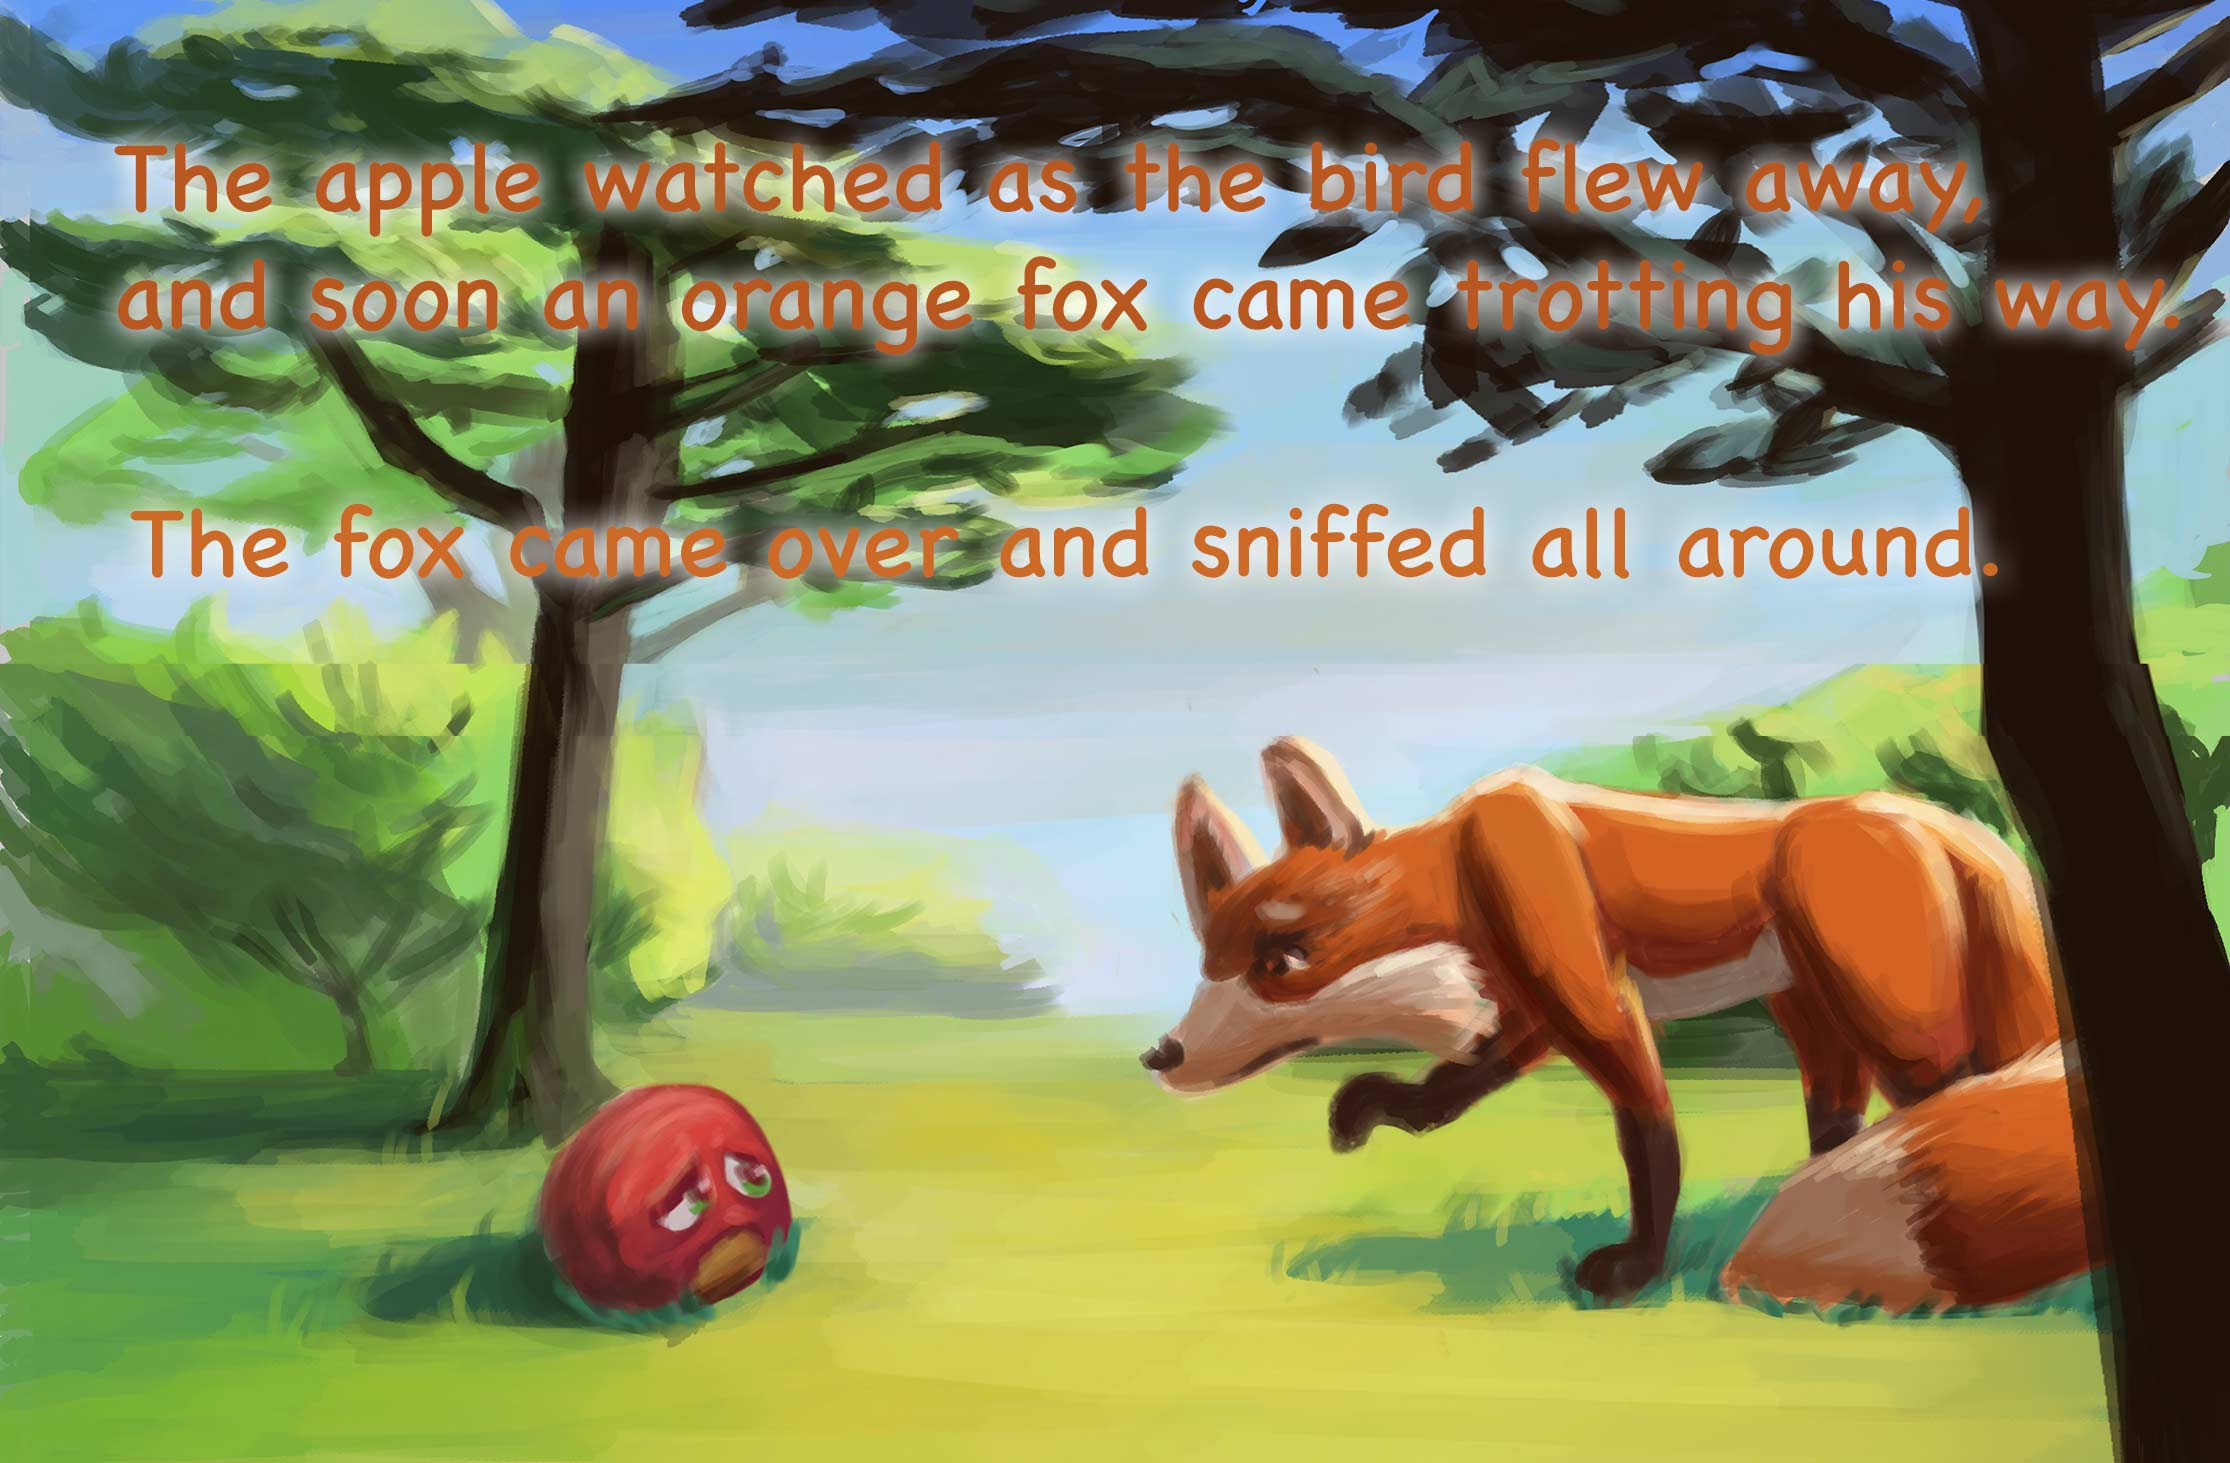
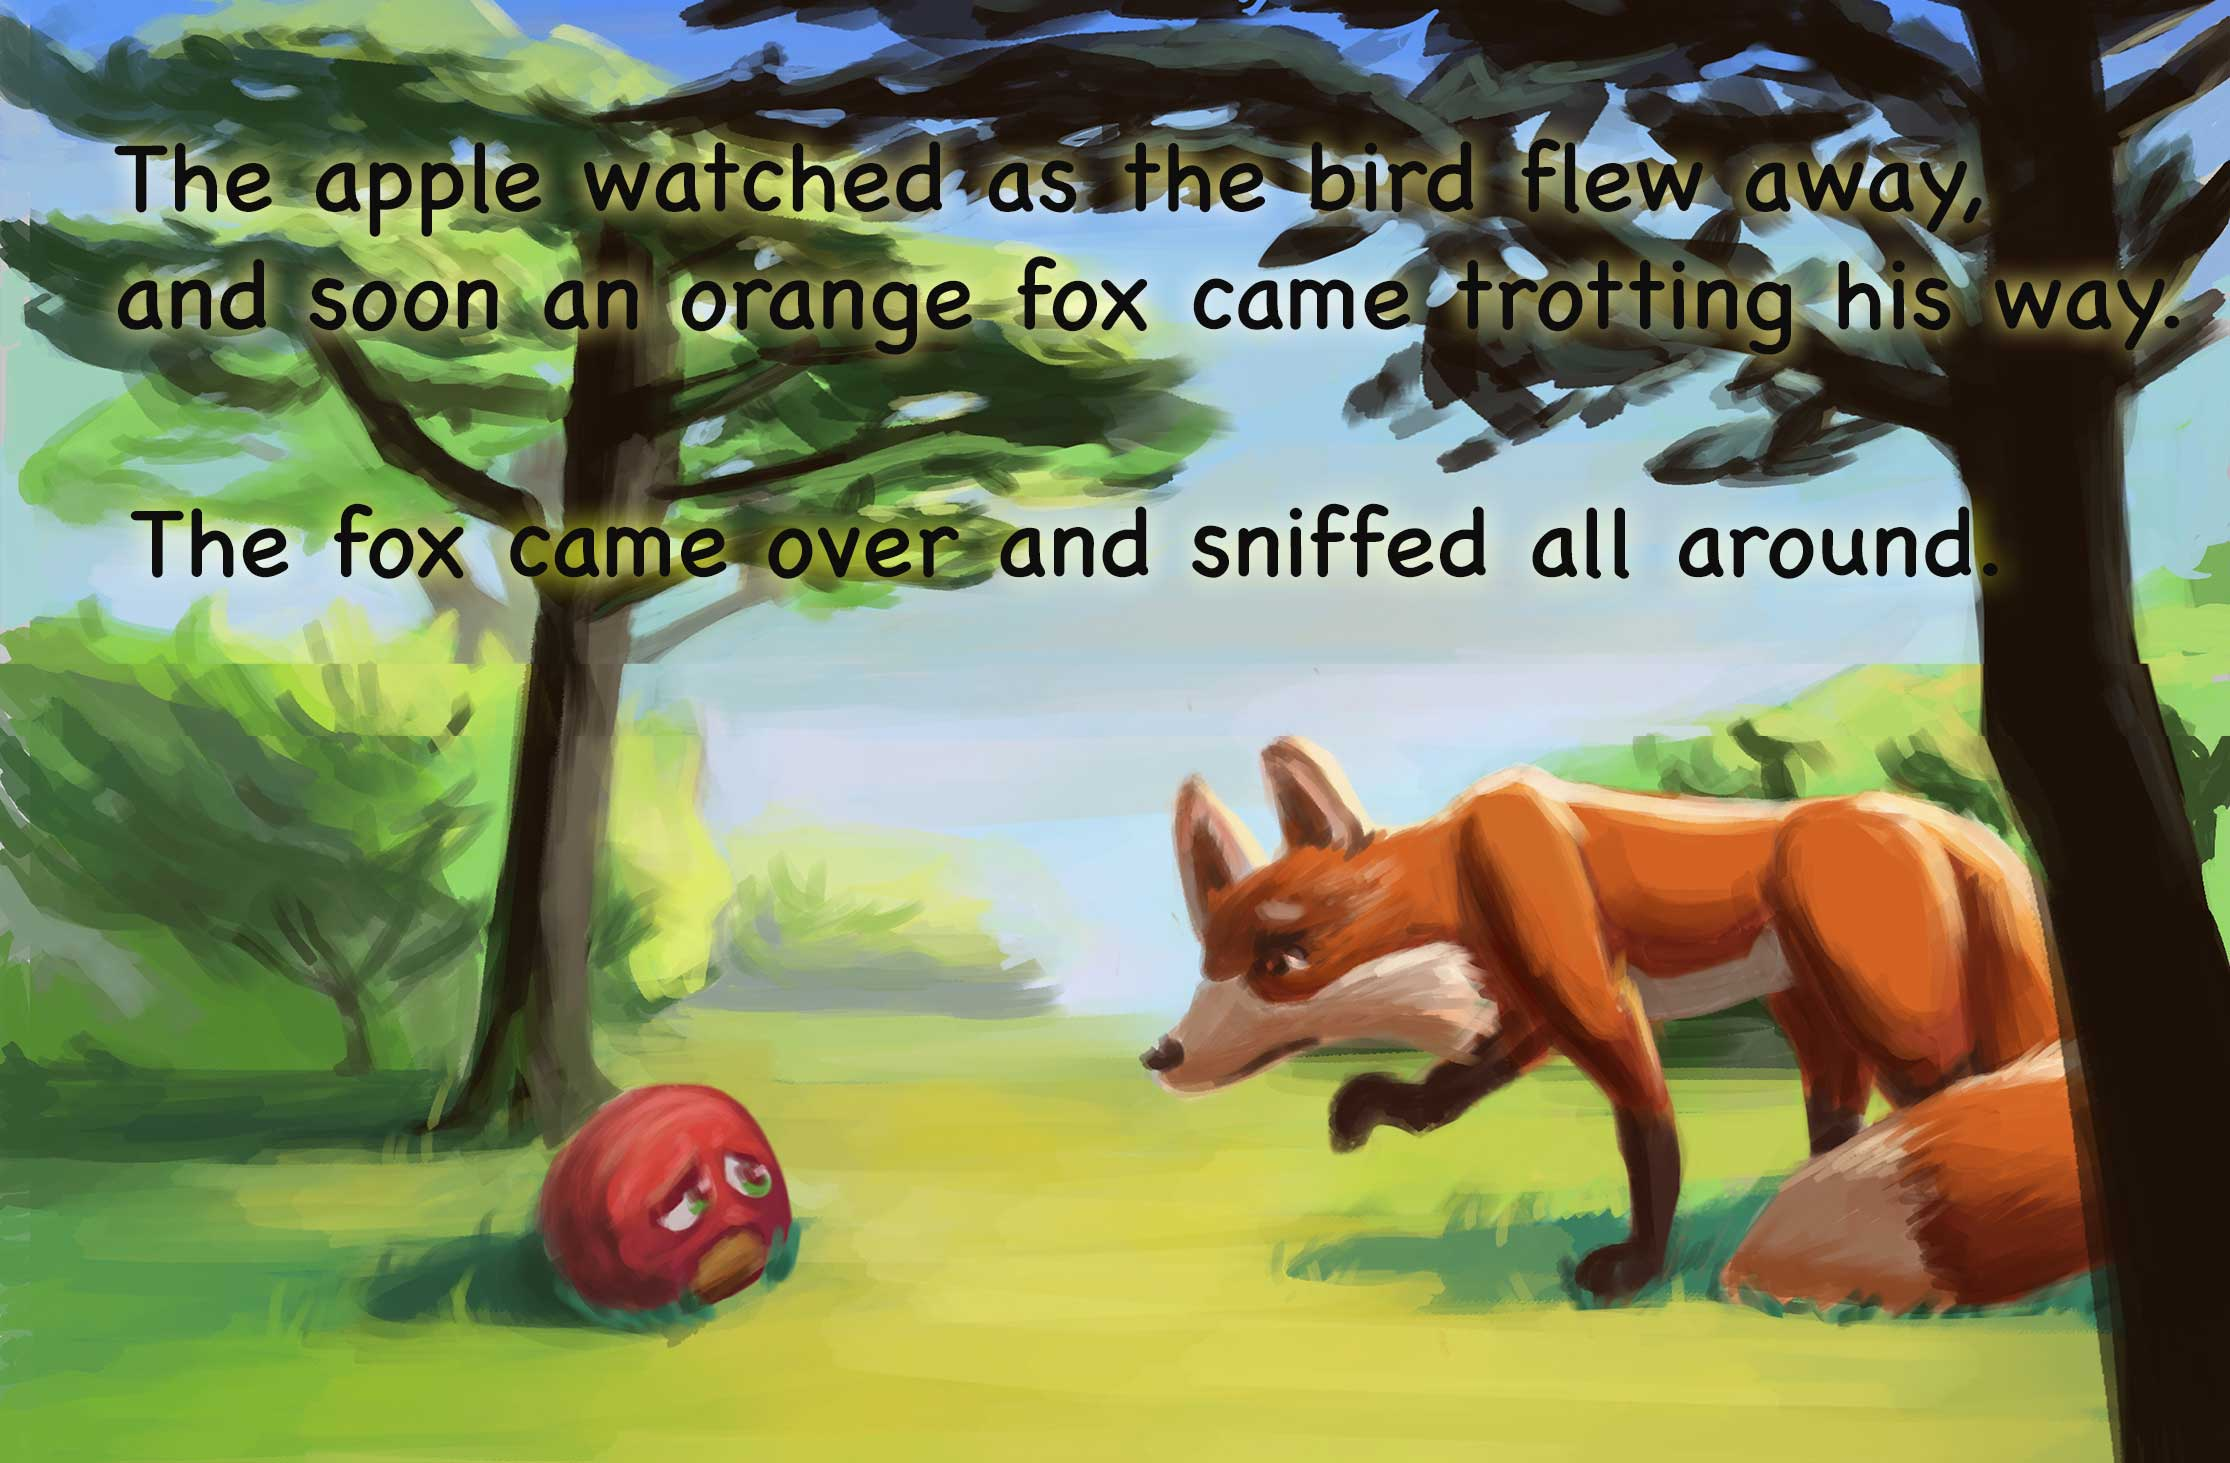
frame-3

Changed region(s): [[0.0309, 0.0923, 0.9901, 0.2461], [0.0619, 0.3383, 0.8973, 0.4306]]

diff --git a/manuscript/page-9/style.css b/manuscript/page-9/style.css
@@ -1,3 +1,5 @@
 body {
-  background-image: url(https://raw.githubusercontent.com/marvindanig/just-be/master/assets/images/2-portrait.jpg);
+  background-image: url(https://raw.githubusercontent.com/marvindanig/just-be/master/assets/images/frame-3.jpg);
+  background-size: 200% 100%;
+  background-position: right center;
 }

diff --git a/manuscript/page-8/style.css b/manuscript/page-8/style.css
@@ -1,3 +1,5 @@
 body {
-  background-image: url(https://raw.githubusercontent.com/marvindanig/just-be/master/assets/images/1-portrait.jpg);
+  background-image: url(https://raw.githubusercontent.com/marvindanig/just-be/master/assets/images/frame-3.jpg);
+  background-size: 200% 100%;
+  background-position: left center;
 }
